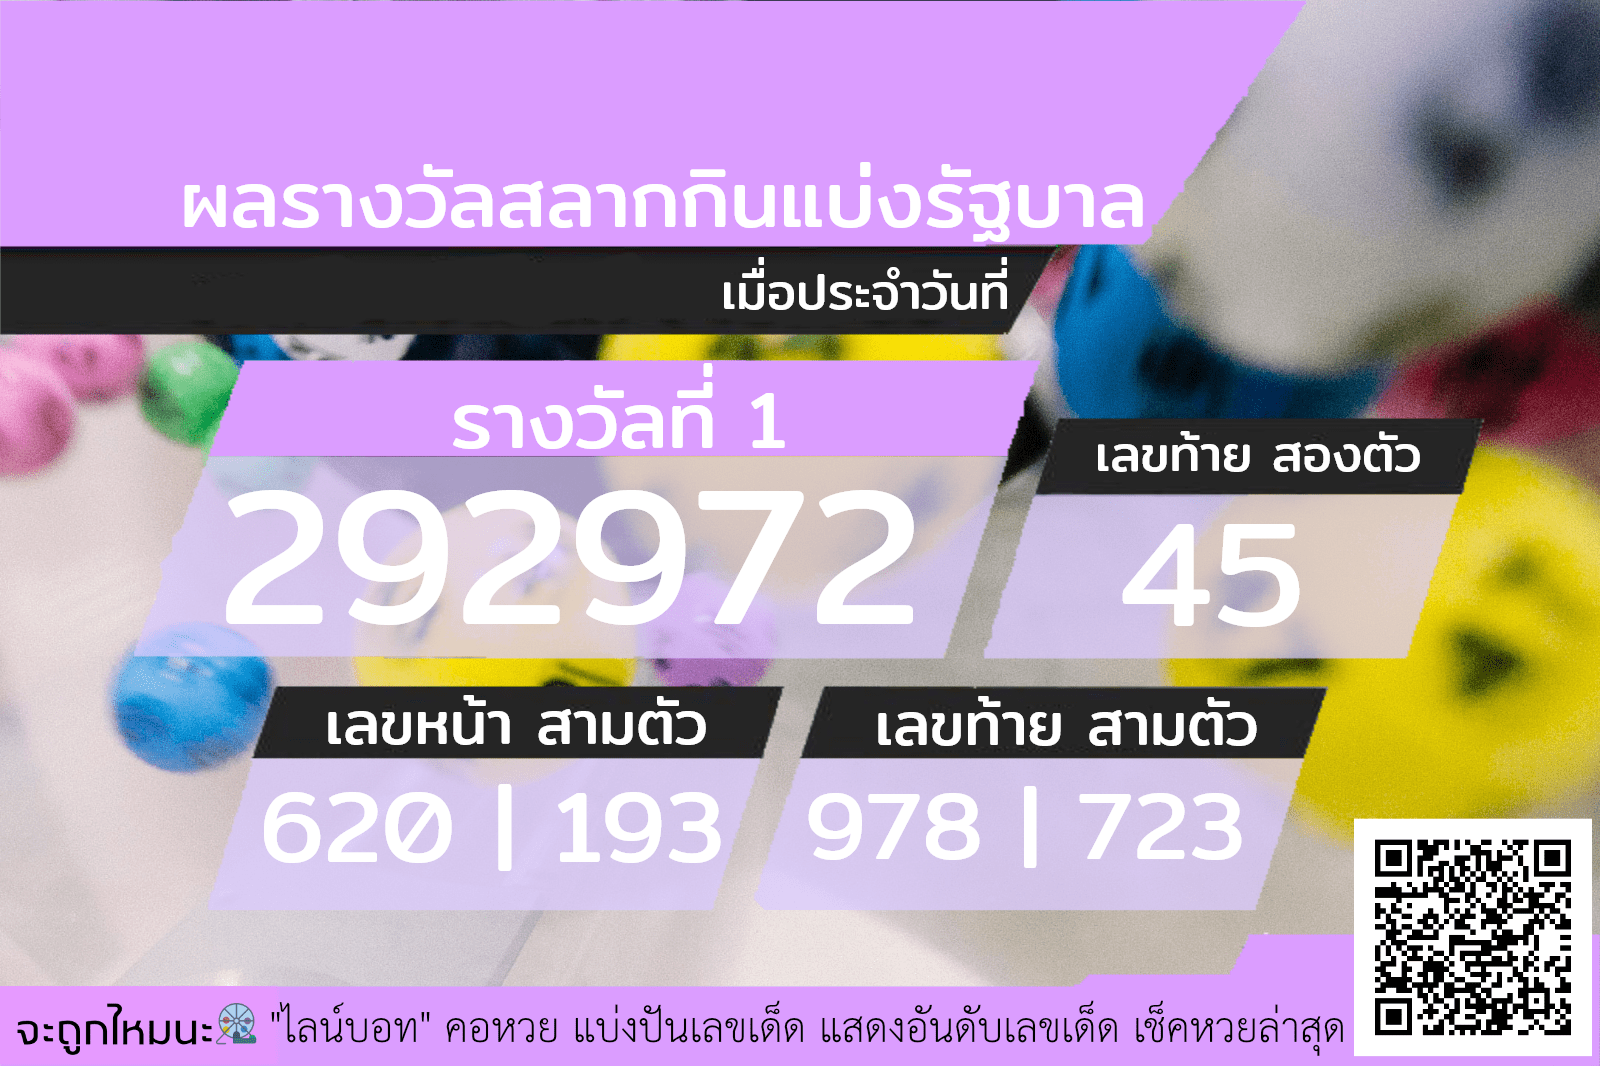
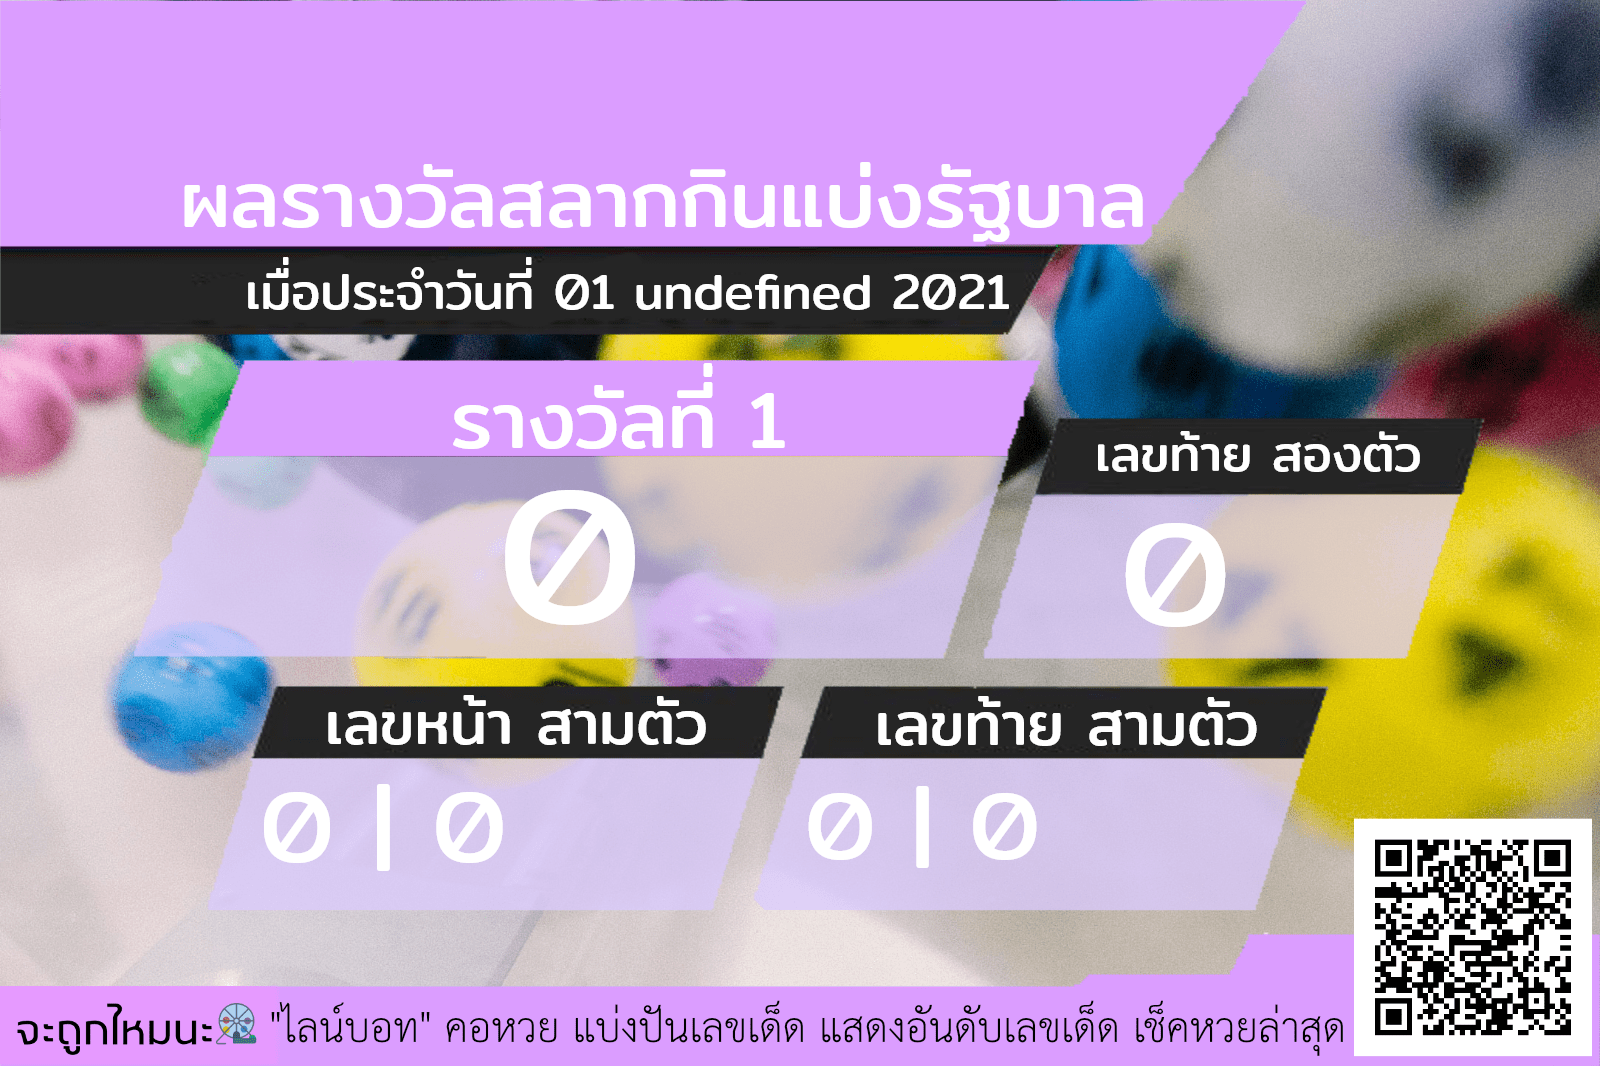
wow

diff --git a/test.js b/test.js
@@ -2,6 +2,7 @@ const Pageres = require('pageres');
 var http = require('http');
 var fs = require('fs');
 const request = require('request');
+const url = require('url');
 
 function padLeadingZeros(num, size) {
     var s = num+"";
@@ -20,10 +21,17 @@ http.createServer(function (req, res) {
     (async () => {
 
         let test = {}
+        let datecheck
+        
+        if(url.parse(req.url,true).query.date){
+            datecheck = url.parse(req.url,true).query.date;
+        }else{
+            datecheck = date+month+year;
+        }
 
         var options = {
             'method': 'GET',
-            'url': 'https://lotapi.pwisetthon.com/lastlot',
+            'url': 'https://main-lottsan-xmutu31582svy3ko-gtw.qovery.io/?date='+datecheck,
             'json': true,
             'headers': {
             }
@@ -31,7 +39,7 @@ http.createServer(function (req, res) {
 
         request(options, async function (error, response) {
             if (error) throw new Error(error);
-            console.log(response.body.win);
+            console.log(response.body[0][1]);
             test = response.body
 
             try {
@@ -43,8 +51,26 @@ http.createServer(function (req, res) {
                 //console.error(err)
             }
 
+            let monthtext;
+
+            switch (datecheck)
+            {
+                case '01' : monthtext="มกราคม"; break;
+                case '02' : monthtext="กุมภาพันธ์"; break;
+                case '03' : monthtext="มีนาคม"; break;
+                case '04' : monthtext="เมษายน"; break;
+                case '05' : monthtext="พฤษภาคม"; break;
+                case '06' : monthtext="มิถุนายน"; break;
+                case '07' : monthtext="กรกฎาคม"; break;
+                case '08' : monthtext="สิงหาคม"; break;
+                case '09' : monthtext="กันยายน"; break;
+                case '10' : monthtext="ตุลาคม"; break;
+                case '11' : monthtext="พฤศจิกายน"; break;
+                case '12' : monthtext="ธันวาคม"; break;
+            }
+
             await new Pageres({filename: "<%= date %>",launchOptions: {args: ['--no-sandbox','--disable-setuid-sandbox','--no-first-run','--disable-extensions']}})
-                .src('data:text/html,<head><meta charset="UTF-8"><meta name="viewport" content="width=device-width, initial-scale=1.0"><link rel="stylesheet" href="https://stackpath.bootstrapcdn.com/bootstrap/5.0.0-alpha2/css/bootstrap.min.css" integrity="sha384-DhY6onE6f3zzKbjUPRc2hOzGAdEf4/Dz+WJwBvEYL/lkkIsI3ihufq9hk9K4lVoK" crossorigin="anonymous"><link href="https://fonts.googleapis.com/css2?family=Mitr&display=swap" rel="stylesheet"><style>body{font-family: \'Mitr\', sans-serif;background-image: url(\'https://lotpost.pwisetthon.com/fbbg.png\');color: white;}</style></head><h1 style="margin-top: 150px;margin-left: 180px;font-size: 80px;">ผลรางวัลสลากกินแบ่งรัฐบาล</h1><h2 style="margin-top: 15px;margin-left: 0px;font-size: 50px;margin-right: 590px;text-align: right;">เมื่อประจำวันที่ </h2><h2 style="margin-top: 50px;font-size: 80px;margin-left: 450px;">รางวัลที่ 1</h2><h2 style="font-size: 12.25vw;margin-left: 190px;margin-top: -40px;margin-right: 650px;text-align: center;">'+test.win+'</h2><h2 style="margin-left: 1095px;margin-top: -255px;font-size: 50px;">เลขท้าย สองตัว</h2><h2 style="margin-left: 1120px;font-size: 150px;margin-top: -10px;">'+test.twoend+'</h2><h2 style="margin-top: 25px;margin-left: 325px;font-size: 60px;">เลขหน้า สามตัว</h2><h2 style="font-size: 100px;margin-left: 260px;">'+test.threefirst.replace(",", " | ")+'</h2><h2 style="margin-left: 875px;margin-top: -207px;font-size: 60px;">เลขท้าย สามตัว</h2><h2 style="font-size: 5.96vw;margin-left: 805px;max-width: 475px;">'+test.threeend.replace(",", " | ")+'</h2>', ['1600x1066'])
+                .src('data:text/html,<head><meta charset="UTF-8"><meta name="viewport" content="width=device-width, initial-scale=1.0"><link rel="stylesheet" href="https://stackpath.bootstrapcdn.com/bootstrap/5.0.0-alpha2/css/bootstrap.min.css" integrity="sha384-DhY6onE6f3zzKbjUPRc2hOzGAdEf4/Dz+WJwBvEYL/lkkIsI3ihufq9hk9K4lVoK" crossorigin="anonymous"><link href="https://fonts.googleapis.com/css2?family=Mitr&display=swap" rel="stylesheet"><style>body{font-family: \'Mitr\', sans-serif;background-image: url(\'https://lotpost.pwisetthon.com/fbbg.png\');color: white;}</style></head><h1 style="margin-top: 150px;margin-left: 180px;font-size: 80px;">ผลรางวัลสลากกินแบ่งรัฐบาล</h1><h2 style="margin-top: 15px;margin-left: 0px;font-size: 50px;margin-right: 590px;text-align: right;">เมื่อประจำวันที่ '+datecheck.substring(0, 2)+' '+monthtext+' '+datecheck.substring(4, 8)+'</h2><h2 style="margin-top: 50px;font-size: 80px;margin-left: 450px;">รางวัลที่ 1</h2><h2 style="font-size: 12.25vw;margin-left: 190px;margin-top: -40px;margin-right: 650px;text-align: center;">'+test[0][1]+'</h2><h2 style="margin-left: 1095px;margin-top: -255px;font-size: 50px;">เลขท้าย สองตัว</h2><h2 style="margin-left: 1120px;font-size: 150px;margin-top: -10px;">'+test[3][1]+'</h2><h2 style="margin-top: 25px;margin-left: 325px;font-size: 60px;">เลขหน้า สามตัว</h2><h2 style="font-size: 100px;margin-left: 260px;">'+test[1][1]+' | '+test[1][2]+'</h2><h2 style="margin-left: 875px;margin-top: -207px;font-size: 60px;">เลขท้าย สามตัว</h2><h2 style="font-size: 5.96vw;margin-left: 805px;max-width: 475px;">'+test[1][1]+' | '+test[1][2]+'</h2>', ['1600x1066'])
                 .dest(__dirname)
                 .run();
 
